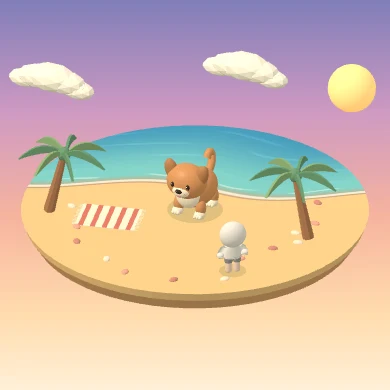
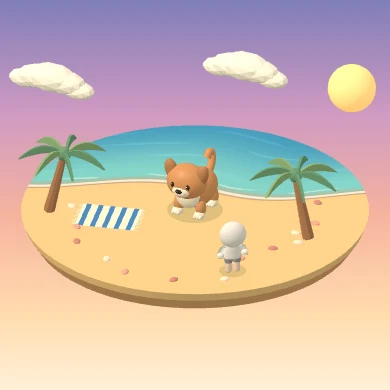
Make the beach mat stripes blue

Changed region(s): [[0.1846, 0.5231, 0.3692, 0.6154]]

diff --git a/sw.js b/sw.js
@@ -1,10 +1,10 @@
-const CACHE='annyeong-v92';
+const CACHE='annyeong-v93';
 const APP_FILES=[
-  './','./manifest.webmanifest?v=7','./app/style.css?v=92','./app/main.js?v=92','./app/photos.js?v=39',
-  './app/annyeong-wordmark.webp','./app/paw-cursor-pink.png','./app/fonts/nanum-pen-script.woff2','./app/treats.js','./app/treat-meat.png','./app/treat-fish.png','./app/friends.js?v=80','./app/account.js?v=80','./app/icons.svg?v=22','./app/data.js','./app/data.js?v=18','./app/avatar.js?v=35','./app/scene.js?v=92','./app/vendor/three.module.min.js',
+  './','./manifest.webmanifest?v=7','./app/style.css?v=93','./app/main.js?v=93','./app/photos.js?v=39',
+  './app/annyeong-wordmark.webp','./app/paw-cursor-pink.png','./app/fonts/nanum-pen-script.woff2','./app/treats.js','./app/treat-meat.png','./app/treat-fish.png','./app/friends.js?v=80','./app/account.js?v=80','./app/icons.svg?v=22','./app/data.js','./app/data.js?v=18','./app/avatar.js?v=35','./app/scene.js?v=93','./app/vendor/three.module.min.js',
   './app/owner-model.js?v=43','./app/owner-colors.js','./app/models/hood_character_cylindrical_legs.glb','./app/vendor/GLTFLoader.js','./app/vendor/BufferGeometryUtils.js',
   './app/welcome-pets/dog.webp','./app/welcome-pets/cat.webp','./app/welcome-pets/hamster.webp','./app/welcome-pets/parrot.webp','./app/welcome-pets/lizard.webp',
-  './app/coast.js?v=92','./app/theme-catalog.js','./app/theme-catalog.js?v=92','./app/extra-themes.js','./app/walk-preview.webp?v=81','./app/clouds-preview.webp','./app/stars-preview.webp','./app/coast-preview.webp?v=92','./app/food-intro-cake.webp','./app/food-game.js?v=77','./app/items.js','./app/item-names.js',
+  './app/coast.js?v=93','./app/theme-catalog.js','./app/theme-catalog.js?v=93','./app/extra-themes.js','./app/walk-preview.webp?v=81','./app/clouds-preview.webp','./app/stars-preview.webp','./app/coast-preview.webp?v=93','./app/food-intro-cake.webp','./app/food-game.js?v=77','./app/items.js','./app/item-names.js',
   './app/item-ball.png','./app/item-bath.png','./app/item-vacuum.png','./app/item-tube.png','./app/item-bag.png','./app/item-gift-0.png','./app/item-gift-1.png','./app/item-gift-2.png',
   './app/vendor/jquery.min.js','./app/icon-drawing-192.png','./app/icon-heart-32.png','./app/icon-heart-192.png','./app/icon-heart-512.png'
 ];

diff --git a/app/main.js b/app/main.js
@@ -1,4 +1,4 @@
-import {themes,themeId,purchasedThemes} from './theme-catalog.js?v=92';
+import {themes,themeId,purchasedThemes} from './theme-catalog.js?v=93';
 import {createFoodGame} from './food-game.js?v=77';
 import {ownerColors as cleanOwnerColors} from './owner-colors.js';
 import {itemShape} from './item-names.js';
@@ -33,7 +33,7 @@ const random=values => values[Math.floor(Math.random()*values.length)];
 const dayKey=(date=new Date()) => [date.getFullYear(),date.getMonth()+1,date.getDate()].map(value => String(value).padStart(2,'0')).join('-');
 const civilDate=key => Date.parse(key+'T00:00:00Z');
 const tags=value => [...new Set(value.split(',').map(item => item.trim()).filter(Boolean))];
-const scenes=import('./scene.js?v=92').catch(() => null);
+const scenes=import('./scene.js?v=93').catch(() => null);
 let state, draft, addingFriend=false;
 let riding=false;
 let page, scene, sceneRevision=0, replyTimer, photoUrl, installPrompt, modeDates={};

diff --git a/app/theme-catalog.js b/app/theme-catalog.js
@@ -1,6 +1,6 @@
 export const themes={
   meadow:{name:'초원',price:0},
-  coast:{name:'노을 바다',price:50,preview:'coast-preview.webp?v=92',alt:'구름이 떠 있는 노을 아래 줄무늬 돗자리가 깔린 해변'},
+  coast:{name:'노을 바다',price:50,preview:'coast-preview.webp?v=93',alt:'구름이 떠 있는 노을 아래 줄무늬 돗자리가 깔린 해변'},
   walk:{name:'동네 산책길',price:50,preview:'walk-preview.webp?v=81',alt:'가로등과 벤치가 있는 벽돌 산책로'},
   clouds:{name:'구름 위',price:50,alt:'하늘 위에 떠 있는 폭신한 구름'},
   stars:{name:'별빛 초원',price:50,alt:'별과 달이 빛나는 밤의 초원'}

diff --git a/app/coast.js b/app/coast.js
@@ -84,13 +84,13 @@ export function makeCoast(scene,theme) {
   mat.rotation.y=.24;
   scene.add(mat);
   const linen=material(0xffefd6);
-  const coral=material(0xda7869);
+  const blue=material(0x4685c4);
   const width=1.6;
   const length=1.18;
   add(new T.BoxGeometry(width,.011,length),linen,0,0,0,mat);
   const stripe=new T.PlaneGeometry(.13,length);
   for (const x of [-.64,-.32,0,.32,.64]) {
-    add(stripe,coral,x,.007,0,mat).rotation.x=-Math.PI/2;
+    add(stripe,blue,x,.007,0,mat).rotation.x=-Math.PI/2;
   }
   const tassel=new T.BoxGeometry(.12,.008,.022);
   for (const side of [-1,1]) {

diff --git a/app/scene.js b/app/scene.js
@@ -3,7 +3,7 @@ import * as T from './vendor/three.module.min.js';
 import { createAvatar } from './avatar.js?v=35';
 import { createMeatTreat, createFishTreat } from './treats.js';
 import {createItem} from './items.js';
-import {coast,makeCoast} from './coast.js?v=92';
+import {coast,makeCoast} from './coast.js?v=93';
 import { meadow } from './data.js';
 import {buildOwnerModel} from './owner-model.js?v=43';
 import {ownerColors as cleanColors} from './owner-colors.js';

diff --git a/app/style.css b/app/style.css
@@ -266,7 +266,7 @@ section > .page-back { margin-bottom: 20px; }
   width: 18%;
   height: 22%;
   border: 1px solid #f8dfb8;
-  background: repeating-linear-gradient(90deg, #fff0d8 0 10%, #d97d6d 10% 20%);
+  background: repeating-linear-gradient(90deg, #fff0d8 0 10%, #4685c4 10% 20%);
   transform: rotate(-12deg);
 }
 #home[data-background="coast"] .meadow-island > * { visibility: hidden; }

diff --git a/index.php b/index.php
@@ -8,10 +8,10 @@
   <link rel="manifest" href="./manifest.webmanifest?v=7">
   <link rel="icon" type="image/png" sizes="32x32" href="./app/icon-heart-32.png">
   <link rel="apple-touch-icon" href="./app/icon-drawing-192.png">
-  <link rel="stylesheet" href="./app/style.css?v=92">
+  <link rel="stylesheet" href="./app/style.css?v=93">
   <title>안녕</title>
   <script defer src="./app/vendor/jquery.min.js"></script>
-  <script type="module" src="./app/main.js?v=92"></script>
+  <script type="module" src="./app/main.js?v=93"></script>
 </head>
 <body>
 <audio id="meadow-music" src="./app/meadow-music.m4a" preload="none" loop></audio>
